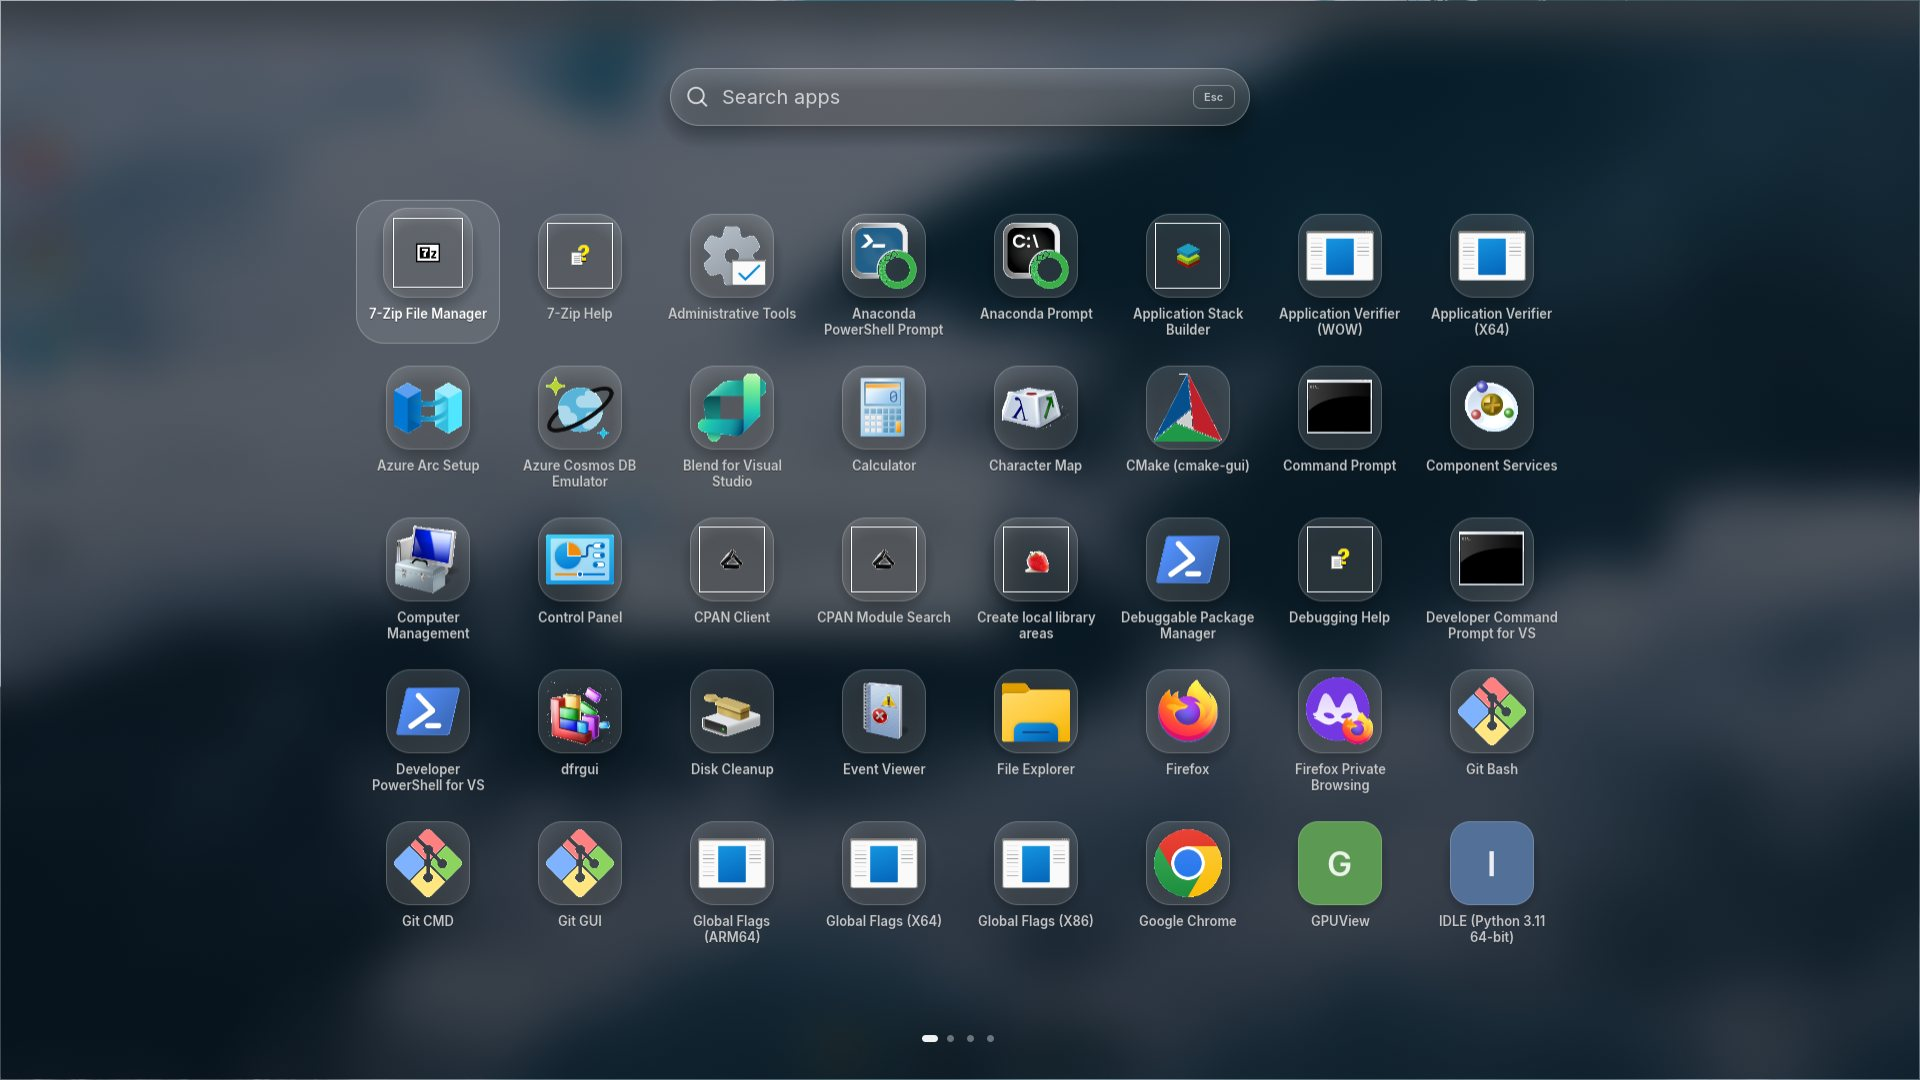
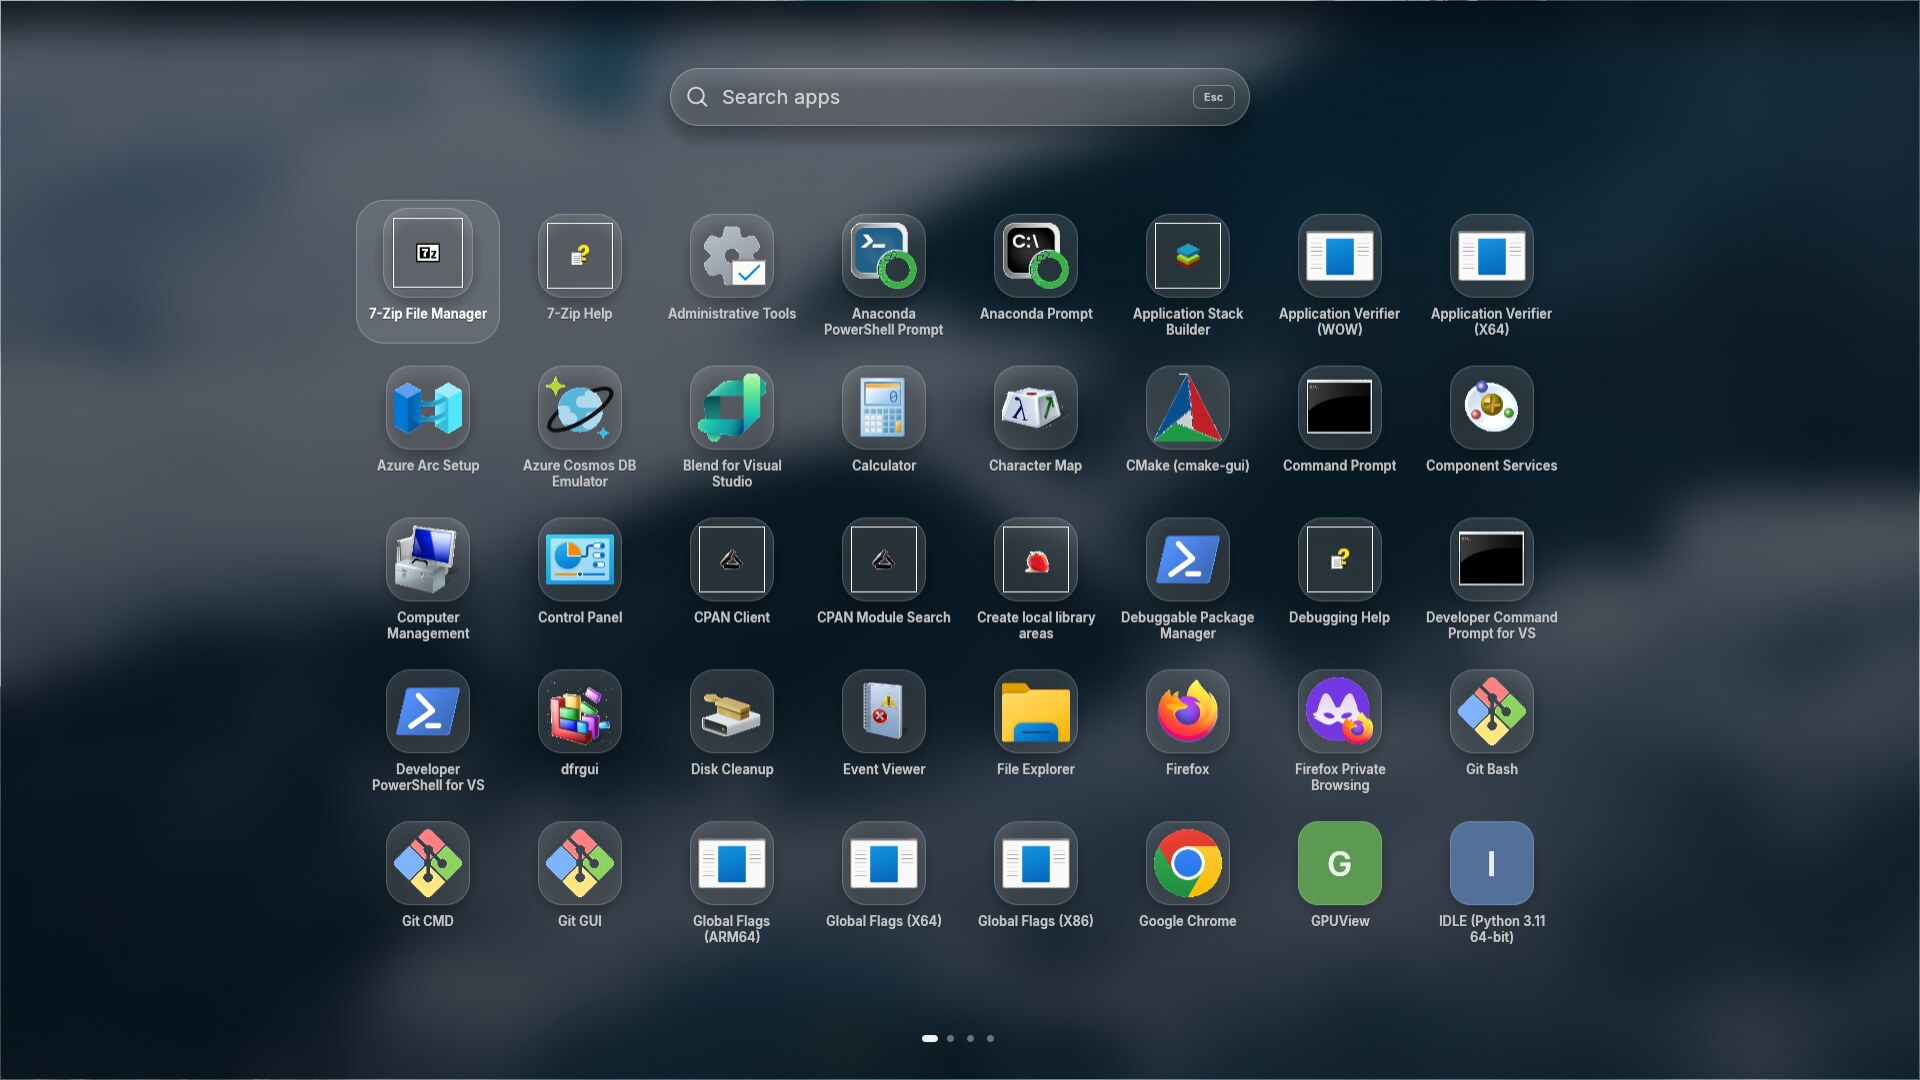
Site, README, scorecard and notes on session 13 captures (dark mode, staged track, runner dialogs closed); licence note for the studio

diff --git a/site/src/lib/shots.ts b/site/src/lib/shots.ts
@@ -5,6 +5,7 @@ export type Shot = { id: string; tab: string; file: string; caption: string };
 export const WALLPAPER_NOTE = "";
 
 export const SHOTS: Shot[] = [
+  { id: "island", tab: "Island", file: "01c-island-media", caption: "Island open on a playing track: cover, title, artist, transport." },
   { id: "desktop", tab: "Desktop", file: "01-desktop", caption: "Dock and menu bar over the desktop. The taskbar is hidden." },
   { id: "windows", tab: "In use", file: "01b-desktop-apps", caption: "With windows open: Explorer and a text file." },
   { id: "hud", tab: "Volume", file: "02-volume-pill", caption: "Volume pill, 200 by 40. The Windows flyout stays closed." },
@@ -13,6 +14,6 @@ export const SHOTS: Shot[] = [
   { id: "palette", tab: "Ctrl+K", file: "05-command-palette", caption: "Command palette: apps, files, windows, settings." },
   { id: "notifications", tab: "Notifications", file: "06-notification-center", caption: "Notification centre." },
   { id: "clock", tab: "Clock", file: "07-clock-panel", caption: "Clock, focus timer, file shelf." },
-  { id: "studio", tab: "Wallpaper", file: "09-wallpaper-studio", caption: "Wallpaper studio. Previews load from 4kwallpapers.com; the hosted runner is refused by its bot check, so the tiles are empty here." },
+  { id: "studio", tab: "Wallpaper", file: "09-wallpaper-studio", caption: "Wallpaper studio. Previews come from 4kwallpapers.com; the hosted runner is refused by its bot check, so tiles show a tint per group here." },
   { id: "settings", tab: "Settings", file: "08-settings", caption: "Settings." },
 ];

diff --git a/site/src/App.tsx b/site/src/App.tsx
@@ -79,7 +79,7 @@ function Desktop() {
       </div>
       <p className="mt-4 text-center text-[14px] text-mute">{active.caption}</p>
       <p className="mt-1 text-center text-[12.5px] text-faint">
-        Captured from the running program on a GitHub-hosted Windows runner, 1920×1080, not rendered. Wallpaper: a Pexels photograph from the bundled pack. The runner's own terminal is minimised.
+        Captured from the running program on a GitHub-hosted Windows runner, 1920×1080, dark mode, not rendered. Wallpapers: Pexels photographs from the bundled pack. The track is a staged media session with a drawn cover. "Test Mode" bottom right is the runner's own watermark.
       </p>
     </section>
   );
@@ -132,8 +132,8 @@ function Wallpapers() {
             </a>
           </p>
           <p className="mt-3 text-[13px] text-faint">
-            Every tile links to its page on 4kwallpapers.com. Nothing is downloaded until you open the studio, and no
-            picture is stored in this repository.
+            Every tile links to its page. Pictures belong to their authors and are cleared for personal desktop use: they
+            download to your PC when you press Apply. This site and repository do not host them.
           </p>
         </div>
         <img

diff --git a/SCORECARD.md b/SCORECARD.md
@@ -6,12 +6,12 @@ Black-box only: nothing was copied, and this repository does not name it.
 
 **Have It**: Whirlpool does this today. **Beat It**: Whirlpool does this and goes further. **Skip It**: not built, with the reason.
 **Gap**: the reference has it and Whirlpool does not yet. Every row below was checked against the code in this
-repository, not against a claim. "Seen" means a runner capture exists (see `docs/captures/session12/`).
+repository, not against a claim. "Seen" means a runner capture exists (see `docs/captures/session13/`).
 
 | Feature | Reference | Whirlpool | Verdict |
 | --- | --- | --- | --- |
 | Top island: idle pill that opens | Yes | Four presets (Compact, Classic, Wide, Expressive), opens from the top edge | Have It |
-| Island media: cover art, transport, progress | Yes | Now playing with transport in the island | Have It |
+| Island media: cover art, transport, progress | Yes | Cover art, title, artist and transport in the island (seen, `docs/captures/session13/01c-island-media.jpg`, staged with a real system media session); no progress bar in the open panel | Have It, progress open |
 | Island media: animated spectrum bars | Yes | Not built (needs a loopback tap on the output device) | Gap |
 | Synced lyrics | Floating karaoke window, lrclib.net | In the island, opt-in, one request per song, off by default | Have It |
 | File shelf: drop in, drag out | Yes | Clock panel shelf, native shell drag out into any window | Have It |
@@ -40,10 +40,30 @@ repository, not against a claim. "Seen" means a runner capture exists (see `docs
 | ARM64 | Not offered | Built in CI; not run on ARM hardware | Beat It, unverified on hardware |
 | Signed installer | Not documented | No: unsigned, see `SIGNING.md` | Gap |
 
+## Reference study (black box, session 13)
+
+Read from the reference's public page and its release listing (one 3.5 MB installer, 24 Nov 2026); nothing was
+decompiled, copied or reused. What its page sells: four desktop widgets (clock in three styles, a vinyl music player,
+a calendar with `.ics`, a sticky memo), a floating karaoke window, a notch with shelf, clipboard, per-app mixer and game
+auto-hide, a Direct3D genie, and a short idle-cost table (about 35 MB, about 0 % CPU). Its screenshots are whole desktops
+on a photograph; ours were tight crops on a flat runner. That is the part we changed.
+
+Where it is ahead: the desktop widget layer and the installer size. Where we are ahead: volume-key suppression, edges
+and displays, updater with rollback, `Ctrl+K` scope, notification centre, hot corners, wallpaper studio. Not built, so
+not claimed: spectrum bars, desktop widgets, per-app mixer, game auto-hide.
+
+## Licence of the wallpaper studio
+
+4kwallpapers.com states that its pictures belong to their authors and are cleared for personal use as a desktop
+wallpaper; any other use needs the author's permission. So the studio downloads a picture to the user's own cache
+only when Apply is pressed, credits the site on every tile and links to each page. This repository, the releases and
+the site do not redistribute any of them, and the public captures use the licensed photographs in `assets/wallpapers`
+(see `ASSETS_LICENSES.md`). The site's bot check also refuses hosted runners (HTTP 403), so the studio could not be
+photographed with its own pictures; its tiles show a tint per group when a preview is unavailable.
+
 ## What is behind the staging
 
-The reference's pictures look like a real PC because they show a full desktop on a photograph, with the glass
-refracting it. Ours looked like CI because the runner's desktop was flat or empty and the crops were tight.
-The capture driver now applies a 4K picture through the studio, checks the desktop is not flat, opens real
-windows behind the shell and shoots the whole 1920x1080 screen. When the site refuses the runner the driver
-falls back to the bundled photos and writes that into the log, so a frame never claims a source it did not use.
+The capture driver sets a dark theme, hides the build text and desktop icons it can, applies a photograph, registers a
+real system media session with a drawn cover, opens real windows and shoots the whole 1920x1080 screen. It closes the
+runner's own paging-file dialog before every frame. One thing cannot be removed: the runner has test signing on, so
+Windows draws a "Test Mode" watermark at the bottom right of every frame. It is left in, not retouched.

diff --git a/README.md b/README.md
@@ -6,16 +6,17 @@ The Windows taskbar, rebuilt as a dock. Dock, menu bar and island in one native 
 [Download](https://github.com/prashantchataut/whirlpool/releases/tag/v4.2.0-rc9) ·
 [Site](https://prashantchataut.github.io/whirlpool/) · [Scorecard](SCORECARD.md) · [Changelog](CHANGELOG.md)
 
-![Desktop](docs/captures/session12/01b-desktop-apps.jpg)
+![Desktop](docs/captures/session13/01c-island-media.jpg)
 
-Captured from `whirlpool.exe` on a GitHub-hosted Windows runner, 1920×1080, 100 % scale, no GPU. The wallpaper is a
-Pexels photograph from the bundled pack; the runner's own terminal is minimised. Not a personal desktop.
+Captured from `whirlpool.exe` on a GitHub-hosted Windows runner, 1920×1080, 100 % scale, dark mode, no GPU. Wallpapers are
+Pexels photographs from the bundled pack. The track is a staged media session with a drawn cover. "Test Mode" bottom
+right is the runner's own watermark. Not a personal desktop.
 
 | | |
 | --- | --- |
-| ![Quick settings](docs/captures/session12/04-quick-settings.jpg) | ![Command palette](docs/captures/session12/05-command-palette.jpg) |
+| ![Quick settings](docs/captures/session13/04-quick-settings.jpg) | ![Command palette](docs/captures/session13/05-command-palette.jpg) |
 | Quick settings, 320 px | `Ctrl+K` palette |
-| ![Start grid](docs/captures/session12/03-start-grid.jpg) | ![Settings](docs/captures/session12/08-settings.jpg) |
+| ![Start grid](docs/captures/session13/03-start-grid.jpg) | ![Settings](docs/captures/session13/08-settings.jpg) |
 | Start grid | Settings |
 
 ## Wallpaper studio
@@ -26,8 +27,9 @@ samples the picture's highlight colour. Open it from Settings, the Wallpaper qui
 `whirlpool --studio-apply ID` applies one from a script.
 
 **Curated 4K wallpapers sourced from [4kwallpapers.com](https://4kwallpapers.com/). Free for personal desktop use.**
-Every tile links to its page. No picture is stored in this repository. If the site refuses the download (it has a bot
-check), the studio opens the picture's page in your browser instead. Previews and downloads are the only requests, and only
+Every tile links to its page. The pictures belong to their authors and are cleared for personal desktop use, so none is
+stored in this repository or in a release: they download to your PC when you press Apply. If the site refuses the
+download (it has a bot check), the studio opens the picture's page in your browser instead. Previews and downloads are the only requests, and only
 while the studio is open.
 
 ## Features

diff --git a/STATUS.md b/STATUS.md
@@ -1,3 +1,9 @@
+# Session 13 (direct commits to main; pre-release `4.2.0-rc10`)
+
+**Done, compiled in CI:** studio placeholder tints, quick settings footer without a battery cluster, palette placeholder, five shorter strings. Capture driver: dark mode, hides desktop icons, a real system media session with a drawn cover (`scripts/stage-media.ps1`), closes runner dialog boxes by class and logs them. Four runner rounds: round 1 (existing frames, 1:1) found the paging-file dialog in the middle of quick settings, "Plugged in" over the footer links, blank white studio tiles, light panels on a dark shell, a placeholder cut off in the palette; round 2 fixed the first three and showed the cover art not loading and light panels; round 3 fixed both (StorageFile, dark mode) and showed the dialog back (also blurred behind the palette); round 4 closed it and is the published set, `docs/captures/session13/`.
+
+**Not achieved, and why:** (1) **4K pictures from 4kwallpapers.com in the captures.** The site answers the runner and this sandbox with HTTP 403 (bot check), and its copyright policy clears the pictures for personal desktop wallpaper only, so they are not redistributed in the repository, releases or published captures; captures use the licensed Pexels photographs. The studio itself is unchanged and downloads on the user's PC. (2) "Test Mode" watermark: the runner has test signing on; left in, not retouched. (3) Spectrum bars, desktop widget layer (clock, player, calendar, memo), lyrics and file shelf captures with real files: not built or not staged. (4) Progress bar in the open island panel: not seen. (5) `rea`, `hallmark-ui`, `open-design-skill`: see `SKILLS_USED.md`.
+
 # Session 11 (direct commits to main; pre-release `4.2.0-rc8`)
 
 **Release:** `v4.2.0-rc8`, pre-release (gate not passed: unsigned, no personal-desktop run, no ARM hardware run). Built by the Release workflow from the tag (run 45728259819, commit `5c47422`). Assets: x64 and ARM64 installers, zips, bare executables, `install.ps1`, `SHA256SUMS.txt`; both installers were downloaded after publishing and their SHA-256 matches the sums. In-app updater, run 45729241899 (`updater-e2e.yml`, clean runner): installed rc7, updated to rc8, check says up to date, rollback to rc7 worked, uninstall left nothing behind. The ARM64 installer was built, not run on ARM.

diff --git a/SKILLS_USED.md b/SKILLS_USED.md
@@ -1,3 +1,14 @@
+## Session 13
+
+Opened and applied: `design-taste-frontend` (read SKILL.md; the capture review used its rule against empty, default-looking frames: tint tiles instead of blank boxes, dark theme, no clipped placeholder) and `copywriting` (short strings; palette placeholder cut from 66 to 38 characters; banned-word grep over the repo found nothing public to remove).
+`rea`: located (`morluto/rea`, a Ghidra/Hopper tool for macOS and Linux; `smartworldarafath/REA_Skill`), **not installed or run**. It disassembles binaries, and the brief asks for a black-box study, so the reference was read from its public page and release listing only (`SCORECARD.md`, "Reference study").
+Not available or not opened: `hallmark-ui`, `open-design-skill`, open-design.ai, skillissue.in (no skill of those names turned up in a search). Nothing is credited to them.
+
+| Skill | What it changed |
+| --- | --- |
+| `design-taste-frontend` | Capture rounds on the runner; studio placeholder tints; hero frame is the island on a playing track |
+| `copywriting` | Five app strings shortened, palette placeholder and empty text; site notes state what is staged |
+
 ## Session 10
 
 Honest record: **no skill file was opened this session**, so none is credited with a change. The session was a merge, a link fix on the site, a release and an updater run; the only visual edit was adding a button and two roadmap rows to the site, which was not reviewed against any skill.

diff --git a/CHANGELOG.md b/CHANGELOG.md
@@ -6,6 +6,14 @@ copies the section of the version being published into the GitHub release.
 Cada versión lista sus cambios en inglés y en español. El flujo de publicación
 copia la sección de la versión que se publica a la release de GitHub.
 
+## 4.2.0-rc10
+
+- Wallpaper studio: a tinted tile per group while a preview is missing (it was a blank white box).
+- Quick settings: no "Plugged in" cluster on a PC without a battery; it ran into the two footer links.
+- Search: shorter placeholder and empty text (the long one was cut off).
+- Shorter wording for the update banner, clock subtitle, crab, focus and dark wallpaper hints.
+- Captures: dark mode, a real media session with cover art in the island, the runner's own dialogs closed before every frame, `docs/captures/session13/`.
+
 ## 4.2.0-rc8
 
 - Search: open windows, Settings entries and widgets join apps, files, actions and clipboard. `window:`, `setting:` and `widget:` narrow the list. Calculator rows now also convert units (`56 KB to MB`, `100 Mbps to MB/s`, `5'11" to cm`, `212 F to C`, `30 mpg to L/100 km`). Set `paletteHotkey` to `Ctrl+K` if you want that key (it is global, so it is not the default).

diff --git a/continuity.md b/continuity.md
@@ -13,6 +13,10 @@ A standalone dock and menu bar for Windows 10/11. Two native Rust executables, n
 - `crates/whirlpool-config`: settings schema and persistence (`%APPDATA%\Whirlpool\config.json`)
 - `site/`: the website (Vite + React + Tailwind), deployed to GitHub Pages
 
+## Session 13 (main, pre-release 4.2.0-rc10)
+
+Capture staging is now `scripts/showcase.ps1` + `scripts/stage-media.ps1` (WinRT media session, run with Windows PowerShell 5.1, cover drawn at run time). 4kwallpapers.com pictures cannot be used in public captures (403 from hosted runners and a personal-use-only policy); do not add them to the repository. Next, ranked: desktop clock widget layer, island progress bar, spectrum bars (loopback tap), file shelf capture with real files, signed installers. A personal access token was pasted into the chat again this session: revoke it.
+
 ## Session 11 (main, pre-release 4.2.0-rc8)
 
 | Area | Change | Where |
